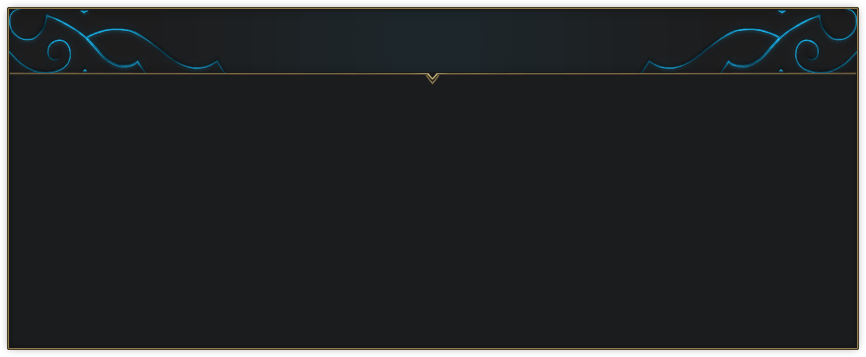
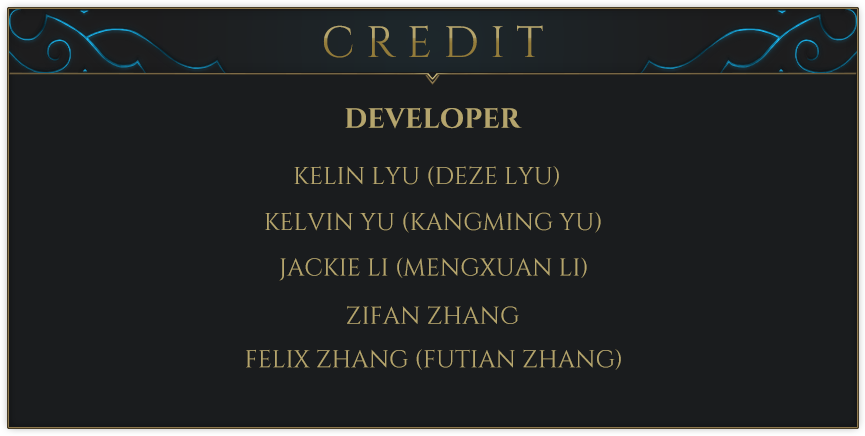
credit, loading

diff --git a/Eternal_Ritual/Game/UI/Logo.cpp b/Eternal_Ritual/Game/UI/Logo.cpp
@@ -35,14 +35,38 @@ Logo::Logo(Engine* e, Font* font, UINode* parentNode, int* process)
 	nameBackground->renderingOrder = 1;
 	nameBackground->screenPosition = glm::vec2(0.5,0.4);
 
-	/*name = new TextNode(font,0.15f,1.0f,0.1f);
-	name->text = "Eternal Ritual";
-	name->color = Color::LogotextColor;
-	name->parentCoordinatePosition = glm::vec2(0.5,0.69);*/
+
+	// loading ========================
+	loadingText = new TextNode(font, 0.05f, 1.0f, 0.1f);
+	loadingText->parentCoordinatePosition = glm::vec2(0.5, 0.7);
+	loadingText->text = "Loading 0%";
+	loadingText->color = Color::textColor;
+
+	loadingbar = new SpriteNode(UISizes::loadingBarTopSize);
+	loadingbar->texture = new Texture("/Resources/Game/UI/loading.png");
+	loadingbar->scale = glm::vec2(0, 1);
+
+	loadingbarBack = new SpriteNode(UISizes::loadingBarBackSize);
+	loadingbarBack->texture = new Texture("/Resources/Game/UI/loading_back.png");
+	loadingbarBack->parentCoordinatePosition = glm::vec2(0.5, 0.75);
+
+	loadingbarTop = new SpriteNode(UISizes::loadingBarTopSize);
+	loadingbarTop->texture = new Texture("/Resources/Game/UI/loading_top.png");
+	loadingbarTop->renderingOrder = 1;
+
+	background->addChildNode(loadingText);
+	background->addChildNode(loadingbarBack);
+	loadingbarBack->addChildNode(loadingbar);
+	loadingbarBack->addChildNode(loadingbarTop);
+
+	loadingbarBack->isDisabled = true;
+	loadingText->isDisabled = true;
+
+	loadingbarBack->scale = glm::vec2(0.8,0.5);
+
 
 	parentNode->addChildNode(background);
 	parentNode->addChildNode(nameBackground);
-	//nameBackground->addChildNode(name);
 	background->addChildNode(logoPic);
 	logoPic->addChildNode(logoBright);
 	background->addChildNode(light);
@@ -121,19 +145,8 @@ void Logo::play() {
 void Logo::updateLoad(float loadingProgess)
 {
 	if (!isload) {
-		loadingText = new TextNode(font, 0.05f, 1.0f, 0.1f);
-		loadingText->parentCoordinatePosition = glm::vec2(0.5, 0.7);
-		loadingText->text = "Loading 0%";
-		loadingText->color = Color::textColor;
-		
-		loadingbar = new SpriteNode(glm::vec2(engine->getWindowResolution().x / engine->getWindowResolution().y - 0.2, 0.01));
-		loadingbar->color = Color::loadingBarColor;
-		loadingbar->parentCoordinatePosition = glm::vec2(0.5, 0.75);
-		loadingbar->scale = glm::vec2(0, 1);
-
-		background->addChildNode(loadingText);
-		background->addChildNode(loadingbar);
-
+		loadingText->isDisabled = false;
+		loadingbarBack->isDisabled = false;
 		isload = true;
 		*pro = 3;
 	}

diff --git a/Eternal_Ritual/Game/UI/StartSceneUI.cpp b/Eternal_Ritual/Game/UI/StartSceneUI.cpp
@@ -31,16 +31,28 @@ StartSceneUI::StartSceneUI(Engine* e, Font* font, UINode* parentNode, UINode* bu
 	netWinBack->screenPosition = glm::vec2(0.5, 0.6);
 
 	netText = new TextNode(font,0.03,UISizes::netWinBackSize.x*0.8,0.1);
-	//netText->parentCoordinatePosition = glm::vec2(0, 0.5);
 	netText->text = "Waiting for other players to join ...";
 	netText->color = Color::textColor;
 	
 	netWinBack->addChildNode(netText);
 
+	winBack = new SpriteNode(UISizes::creditWinBackSize);
+	winBack->texture = new Texture("/Resources/Game/UI/win_back.png");
+	winBack->alpha = 0;
+	winBack->isDisabled = true;
+	winBack->renderingOrder = 3;
+	winBack->screenPosition = glm::vec2(0.5);
+
+	winCloseButton = new ButtonNode(winBack, font);
+	winCloseButton->setWinButton("Close");
+	winCloseButton->setPosition(glm::vec2(0.5, 0.99));
+	//winCloseButton->setScale(0.7);
+
 	buttonBase->alpha = 0;
 	buttonBase->isDisabled = true;
 	parentNode->addChildNode(buttonBase);
 	parentNode->addChildNode(netWinBack);
+	parentNode->addChildNode(winBack);
 }
 
 void StartSceneUI::isDisbled(bool t)
@@ -53,6 +65,7 @@ int StartSceneUI::update(bool isWaiting) {
 	glm::vec2 position = engine->input->getMouseScreenPosition();
 	Input* input = engine->input;
 	bool show = !netWinBack->isDisabled;
+	bool creditShow = !winBack->isDisabled;
 
 	if (show && !isWaiting) {
         Animation* netWinExit = new Animation("netWinExit", 0.3f);
@@ -64,7 +77,7 @@ int StartSceneUI::update(bool isWaiting) {
         return 5;
     }
 
-	if (!show) {
+	if (!show && !creditShow) {
 
 		bool isReleased = input->wasKeyReleased(MOUSE_BUTTON_LEFT);
 
@@ -80,11 +93,24 @@ int StartSceneUI::update(bool isWaiting) {
 		}
 
 		if (creditButton->checkState(position, input, isReleased)) {
-			return 2;
+			winBack->isDisabled = false;
+			Animation* showCredit = new Animation("showCredit", 0.5f);
+			showCredit->setFloatAnimation(&winBack->alpha, 1);
+			engine->playAnimation(showCredit);
 		}
 
 		if (exitButton->checkState(position, input, isReleased)) {
 			engine->terminate();
+		}
+	}
+
+	if (creditShow) {
+		bool isReleased = input->wasKeyReleased(MOUSE_BUTTON_LEFT);
+		if (winCloseButton->checkState(position, input, isReleased)) {
+			Animation* closeCredit = new Animation("closeCredit", 0.5f);
+			closeCredit->setFloatAnimation(&winBack->alpha, 0);
+			engine->playAnimation(closeCredit);
+			winBack->isDisabled = true;
 		}
 	}
     

diff --git a/Eternal_Ritual/Game/UI/ButtonNode.cpp b/Eternal_Ritual/Game/UI/ButtonNode.cpp
@@ -32,6 +32,16 @@ ButtonNode::ButtonNode(UINode* parentNode,Font* font){
 
 void ButtonNode::disable(bool disable){background->isDisabled = disable;}
 
+void ButtonNode::setWinButton(std::string t)
+{
+    normal = new Texture("/Resources/Game/UI/win_btn_back.png");
+    glow = new Texture("/Resources/Game/UI/win_btn_glow_back.png");
+    dark = new Texture("/Resources/Game/UI/win_btn_dark_back.png");
+    text->text = t;
+    background->scale = glm::vec2(0.7);
+    text->scale = glm::vec2(1.3);
+}
+
 void ButtonNode::setText(std::string t){
     text->text = t;
 }
@@ -46,22 +56,10 @@ void ButtonNode::setScale(float i)
     text->scale = glm::vec2(i);
 }
 
-void ButtonNode::switchOn(){
-    background->multiplyColor = glm::vec4(1.5);
-}
-void ButtonNode::switchOff(){
-    background->multiplyColor = glm::vec4(0.5,0.5,0.5,1.0);
-}
-
-void ButtonNode::restore(){
-    background->multiplyColor = glm::vec4(1);
-}
-
 bool ButtonNode::checkState(glm::vec2 mousePosition, Input* input, bool isReleasd){
     if(background->isDisabled){
         return false;
     }
-
 
     if(background->checkSizeIncludesScreenPosition(mousePosition)){
         std::cout << text->text  + ": " << isReleasd << std::endl;

diff --git a/Eternal_Ritual/Game/UI/Constant.hpp b/Eternal_Ritual/Game/UI/Constant.hpp
@@ -15,7 +15,7 @@ namespace Color{
 	const glm::vec4 Mp = glm::vec4(0.2,0.2,0.7,1.0);
 	const glm::vec4 textColor = glm::vec4(0.76,0.67,0.5,1.0);
 	const glm::vec4 LogotextColor = glm::vec4(0.9, 0.79, 0.33, 1.0);
-	const glm::vec4 loadingBarColor = glm::vec4(0.3, 0.4, 0.9, 1.0);
+	const glm::vec4 loadingBarColor = glm::vec4(0.2, 0.8, 0.8, 1.0);
 };
 
 namespace UISizes{
@@ -83,12 +83,16 @@ namespace UISizes{
 	// logo =================
 	const glm::vec2 logoLightSize = glm::vec2(1.018,0.585);
 	const glm::vec2 logoBackSize = glm::vec2(1.023, 0.331);
+	const glm::vec2 loadingBarBackSize = glm::vec2(1.490,0.107);
+	const glm::vec2 loadingBarTopSize = glm::vec2(1.471,0.045);
+
 
 	// button ===============
 	const glm::vec2 buttonSize = glm::vec2(0.276,0.094);
 
 	// windows ==============
 	const glm::vec2 netWinBackSize = glm::vec2(0.852,0.078);
+	const glm::vec2 creditWinBackSize = glm::vec2(0.865,0.436);
 
 	// end ================
 	const glm::vec2 endLogoSize = glm::vec2(0.539,0.238);

diff --git a/Eternal_Ritual/Game/UI/ButtonNode.hpp b/Eternal_Ritual/Game/UI/ButtonNode.hpp
@@ -27,9 +27,6 @@ protected:
     Texture* glow;
     Texture* dark;
     bool hover;
-    void switchOn();
-    void switchOff();
-    void restore();
 public:
     ButtonNode(UINode* partentNode,Font* font);
     ~ButtonNode() = default;
@@ -38,6 +35,7 @@ public:
     void setScale(float i);
     bool checkState(glm::vec2 mousePosition, Input* input, bool isReleasd);
     void disable(bool disable);
+    void setWinButton(std::string t);
 };
 
 

diff --git a/Eternal_Ritual/Game/UI/StartSceneUI.hpp b/Eternal_Ritual/Game/UI/StartSceneUI.hpp
@@ -11,9 +11,11 @@ private:
 	UINode* parentNode;
 	UINode* buttonBase;
 	SpriteNode* nameBackground;
+	SpriteNode* winBack;
 	ButtonNode* startButton;
 	ButtonNode* creditButton;
 	ButtonNode* exitButton;
+	ButtonNode* winCloseButton;
 	SpriteNode* netWinBack;
 	SpriteNode* creditBack;
 	TextNode* netText;

diff --git a/Eternal_Ritual/Game/UI/Logo.hpp b/Eternal_Ritual/Game/UI/Logo.hpp
@@ -13,6 +13,8 @@ protected:
 	SpriteNode* light;
 	SpriteNode* nameBackground;
 	SpriteNode* loadingbar;
+	SpriteNode* loadingbarBack;
+	SpriteNode* loadingbarTop;
 	TextNode* loadingText;
 	TextNode* name;
 	Font* font;
